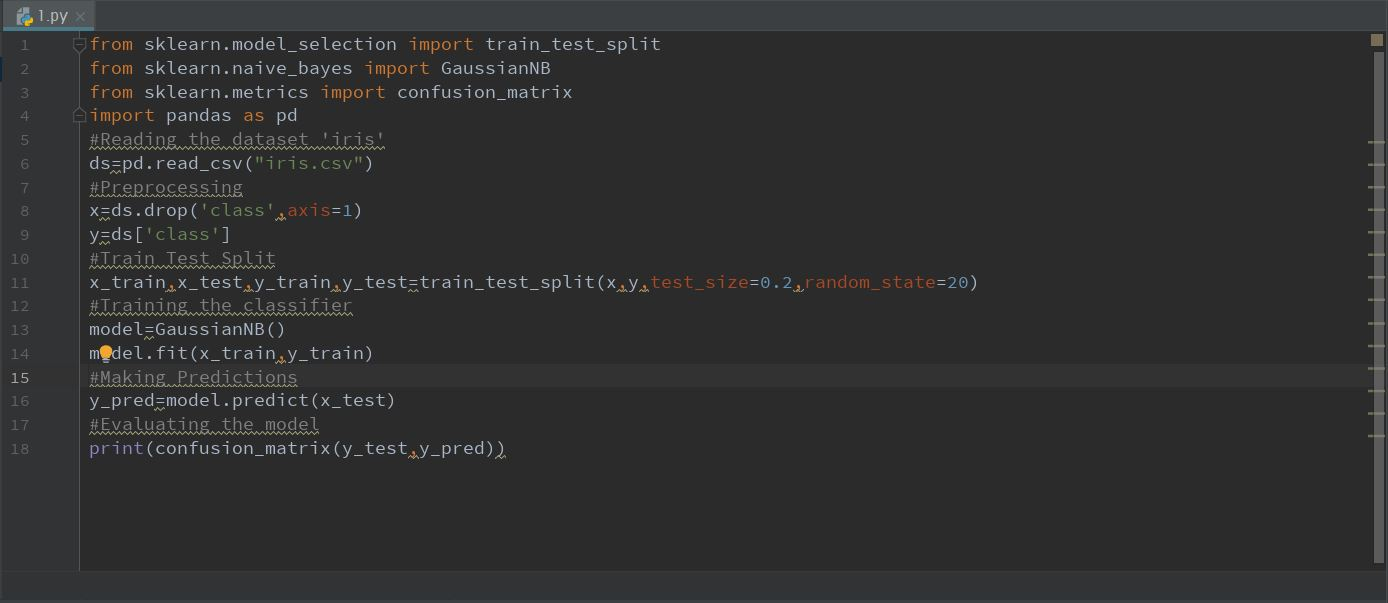
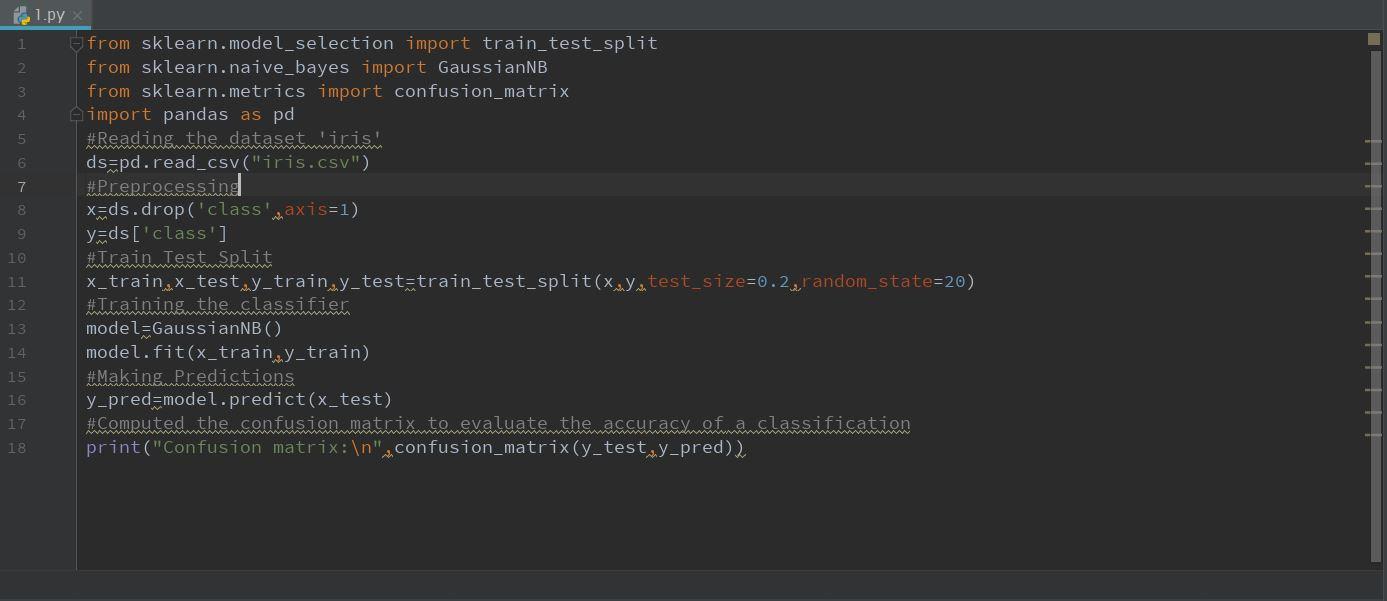
ICP_4

Changed region(s): [[0.0, 0.0, 0.713, 0.7787], [0.9921, 0.0599, 1.0, 0.9584], [0.0, 0.4193, 0.031, 0.4493]]

diff --git a/ICP_4/source_code/2.py b/ICP_4/source_code/2.py
@@ -13,5 +13,5 @@ x_train,x_test,y_train,y_test=train_test_split(x,y,test_size=0.2,random_state=20
 clf=SVC(kernel='linear',C=1).fit(x_train,y_train)
 #Making Predictions
 y_pred=clf.predict(x_test)
-#Evaluating the model
-print(confusion_matrix(y_test,y_pred))
+#Computed the confusion matrix to evaluate the accuracy of a classification
+print("Confusion matrix:\n",confusion_matrix(y_test,y_pred))

diff --git a/ICP_4/source_code/1.py b/ICP_4/source_code/1.py
@@ -14,5 +14,5 @@ model=GaussianNB()
 model.fit(x_train,y_train)
 #Making Predictions
 y_pred=model.predict(x_test)
-#Evaluating the model
-print(confusion_matrix(y_test,y_pred))
+#Computed the confusion matrix to evaluate the accuracy of a classification
+print("Confusion matrix:\n",confusion_matrix(y_test,y_pred))
